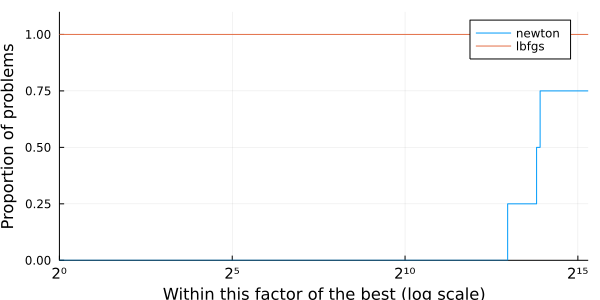
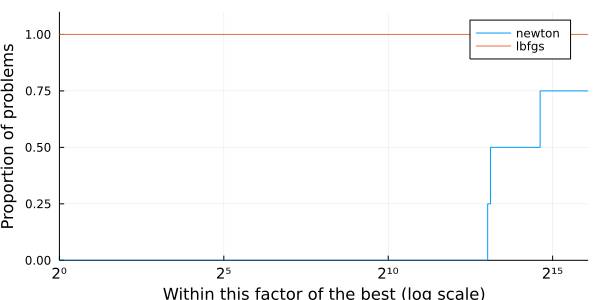
Deploying to gh-pages from  @ dcdb9bae952de26ad7f4052e1809d3c5ec10b59e 🚀

diff --git a/index.html b/index.html
@@ -8,7 +8,7 @@ contour&#40;-2:0.02:2, -0.5:0.02:1.5, &#40;x,y&#41; -&gt; &#40;x - 1&#41;^2 &#43
 nlp &#61; ADNLPModel&#40;
   x -&gt; &#40;x&#91;1&#93; - 1&#41;^2 &#43; 4 * &#40;x&#91;2&#93; - x&#91;1&#93;^2&#41;^2, # function
   &#91;-1.2; 1.0&#93; # starting point
-&#41;</code></pre><pre><code class="plaintext code-output">ADNLPModel - Model with automatic differentiation backend ADNLPModels.ForwardDiffAD{ForwardDiff.GradientConfig{ForwardDiff.Tag{var"#3#4", Float64}, Float64, 2, Vector{ForwardDiff.Dual{ForwardDiff.Tag{var"#3#4", Float64}, Float64, 2}}}}(3, 0, ForwardDiff.GradientConfig{ForwardDiff.Tag{var"#3#4", Float64}, Float64, 2, Vector{ForwardDiff.Dual{ForwardDiff.Tag{var"#3#4", Float64}, Float64, 2}}}((Partials(1.0, 0.0), Partials(0.0, 1.0)), ForwardDiff.Dual{ForwardDiff.Tag{var"#3#4", Float64}, Float64, 2}[Dual{ForwardDiff.Tag{var"#3#4", Float64}}(0.0,6.9153200153722e-310,6.9153200153722e-310), Dual{ForwardDiff.Tag{var"#3#4", Float64}}(0.0,6.9153199943155e-310,6.9153199943155e-310)]))
+&#41;</code></pre><pre><code class="plaintext code-output">ADNLPModel - Model with automatic differentiation backend ADNLPModels.ForwardDiffAD{ForwardDiff.GradientConfig{ForwardDiff.Tag{var"#3#4", Float64}, Float64, 2, Vector{ForwardDiff.Dual{ForwardDiff.Tag{var"#3#4", Float64}, Float64, 2}}}}(3, 0, ForwardDiff.GradientConfig{ForwardDiff.Tag{var"#3#4", Float64}, Float64, 2, Vector{ForwardDiff.Dual{ForwardDiff.Tag{var"#3#4", Float64}, Float64, 2}}}((Partials(1.0, 0.0), Partials(0.0, 1.0)), ForwardDiff.Dual{ForwardDiff.Tag{var"#3#4", Float64}, Float64, 2}[Dual{ForwardDiff.Tag{var"#3#4", Float64}}(0.0,6.93995812715344e-310,6.9399581185061e-310), Dual{ForwardDiff.Tag{var"#3#4", Float64}}(0.0,6.93995812715344e-310,6.9399607618909e-310)]))
   Problem name: Generic
    All variables: ████████████████████ 2      All constraints: ⋅⋅⋅⋅⋅⋅⋅⋅⋅⋅⋅⋅⋅⋅⋅⋅⋅⋅⋅⋅ 0     
             free: ████████████████████ 2                 free: ⋅⋅⋅⋅⋅⋅⋅⋅⋅⋅⋅⋅⋅⋅⋅⋅⋅⋅⋅⋅ 0     
@@ -247,7 +247,7 @@ print&#40;output&#41;</code></pre><pre><code class="plaintext code-output">Gener
   dual feasibility: 4.018046284781729e-9
   solution: [0.9999999986742657  0.9999999970013461]
   iterations: 18
-  elapsed time: 5.1021575927734375e-5
+  elapsed time: 5.817413330078125e-5
 </code></pre>
 <p>And to compare both solvers, we need a collection of problems. Let&#39;s just create one manually for now.</p>
 <pre><code class=language-julia >problems &#61; &#91;
@@ -265,18 +265,18 @@ stats &#61; bmark_solvers&#40;solvers, problems&#41;</code></pre><pre><code clas
  Row │ id     name     nvar   ncon   nequ   status       objective     elapsed_time  iter   dual_feas  primal_feas  neval_obj  neval_grad  neval_cons  neval_cons_lin  neval_cons_nln  neval_jcon  neval_jgrad  neval_jac  neval_jac_lin  neval_jac_nln  neval_jprod  neval_jprod_lin  neval_jprod_nln  neval_jtprod  neval_jtprod_lin  neval_jtprod_nln  neval_hess  neval_hprod  neval_jhess  neval_jhprod  neval_residual  neval_jac_residual  neval_jprod_residual  neval_jtprod_residual  neval_hess_residual  neval_jhess_residual  neval_hprod_residual  extrainfo
      │ Int64  String   Int64  Int64  Int64  Symbol       Float64       Float64       Int64  Float64    Float64      Int64      Int64       Int64       Int64           Int64           Int64       Int64        Int64      Int64          Int64          Int64        Int64            Int64            Int64         Int64             Int64             Int64       Int64        Int64        Int64         Int64           Int64               Int64                 Int64                  Int64                Int64                 Int64                 String
 ─────┼────────────────────────────────────────────────────────────────────────────────────────────────────────────────────────────────────────────────────────────────────────────────────────────────────────────────────────────────────────────────────────────────────────────────────────────────────────────────────────────────────────────────────────────────────────────────────────────────────────────────────────────────────────────────────────────────────────────────────────────────────────────────────────────────────────────────────────────────────
-   1 │     1  Generic      2      0      0  first_order   2.46519e-31      0.5863        1        Inf          0.0          3           4           0               0               0           0            0          0              0              0            0                0                0             0                 0                 0           1            0            0             0               0                   0                     0                      0                    0                     0                     0
-   2 │     2  Generic      2      0      0  first_order   3.74398e-21      0.682246     21        Inf          0.0         50          64           0               0               0           0            0          0              0              0            0                0                0             0                 0                 0          21            0            0             0               0                   0                     0                      0                    0                     0                     0
-   3 │     3  Generic      2      0      0  max_iter     -8.36356          0.572297    100        Inf          0.0        201         301           0               0               0           0            0          0              0              0            0                0                0             0                 0                 0         100            0            0             0               0                   0                     0                      0                    0                     0                     0
-   4 │     4  Generic      2      0      0  first_order   1.43195          0.617975      5        Inf          0.0         12          16           0               0               0           0            0          0              0              0            0                0                0             0                 0                 0           5            0            0             0               0                   0                     0                      0                    0                     0                     0
+   1 │     1  Generic      2      0      0  first_order   2.46519e-31      0.512054      1        Inf          0.0          3           4           0               0               0           0            0          0              0              0            0                0                0             0                 0                 0           1            0            0             0               0                   0                     0                      0                    0                     0                     0
+   2 │     2  Generic      2      0      0  first_order   3.74398e-21      0.615826     21        Inf          0.0         50          64           0               0               0           0            0          0              0              0            0                0                0             0                 0                 0          21            0            0             0               0                   0                     0                      0                    0                     0                     0
+   3 │     3  Generic      2      0      0  max_iter     -8.36356          0.551832    100        Inf          0.0        201         301           0               0               0           0            0          0              0              0            0                0                0             0                 0                 0         100            0            0             0               0                   0                     0                      0                    0                     0                     0
+   4 │     4  Generic      2      0      0  first_order   1.43195          0.558072      5        Inf          0.0         12          16           0               0               0           0            0          0              0              0            0                0                0             0                 0                 0           5            0            0             0               0                   0                     0                      0                    0                     0                     0
   :lbfgs => 4×39 DataFrame
  Row │ id     name     nvar   ncon   nequ   status       objective     elapsed_time  iter   dual_feas   primal_feas  neval_obj  neval_grad  neval_cons  neval_cons_lin  neval_cons_nln  neval_jcon  neval_jgrad  neval_jac  neval_jac_lin  neval_jac_nln  neval_jprod  neval_jprod_lin  neval_jprod_nln  neval_jtprod  neval_jtprod_lin  neval_jtprod_nln  neval_hess  neval_hprod  neval_jhess  neval_jhprod  neval_residual  neval_jac_residual  neval_jprod_residual  neval_jtprod_residual  neval_hess_residual  neval_jhess_residual  neval_hprod_residual  extrainfo
      │ Int64  String   Int64  Int64  Int64  Symbol       Float64       Float64       Int64  Float64     Float64      Int64      Int64       Int64       Int64           Int64           Int64       Int64        Int64      Int64          Int64          Int64        Int64            Int64            Int64         Int64             Int64             Int64       Int64        Int64        Int64         Int64           Int64               Int64                 Int64                  Int64                Int64                 Int64                 String
 ─────┼─────────────────────────────────────────────────────────────────────────────────────────────────────────────────────────────────────────────────────────────────────────────────────────────────────────────────────────────────────────────────────────────────────────────────────────────────────────────────────────────────────────────────────────────────────────────────────────────────────────────────────────────────────────────────────────────────────────────────────────────────────────────────────────────────────────────────────────────────────
-   1 │     1  Generic      2      0      0  first_order   2.26824e-16    3.8147e-5       8  5.28297e-8          0.0         11          10           0               0               0           0            0          0              0              0            0                0                0             0                 0                 0           0            0            0             0               0                   0                     0                      0                    0                     0                     0
-   2 │     2  Generic      2      0      0  first_order   1.44561e-17    8.51154e-5     39  8.41132e-8          0.0         52          45           0               0               0           0            0          0              0              0            0                0                0             0                 0                 0           0            0            0             0               0                   0                     0                      0                    0                     0                     0
-   3 │     3  Generic      2      0      0  first_order  -8.37235        2.69413e-5     12  1.60958e-9          0.0         17          15           0               0               0           0            0          0              0              0            0                0                0             0                 0                 0           0            0            0             0               0                   0                     0                      0                    0                     0                     0
-   4 │     4  Generic      2      0      0  first_order   1.43195        4.31538e-5      9  4.18646e-9          0.0         11          11           0               0               0           0            0          0              0              0            0                0                0             0                 0                 0           0            0            0             0               0                   0                     0                      0                    0                     0                     0</code></pre>
+   1 │     1  Generic      2      0      0  first_order   2.26824e-16    5.79357e-5      8  5.28297e-8          0.0         11          10           0               0               0           0            0          0              0              0            0                0                0             0                 0                 0           0            0            0             0               0                   0                     0                      0                    0                     0                     0
+   2 │     2  Generic      2      0      0  first_order   1.44561e-17    7.39098e-5     39  8.41132e-8          0.0         52          45           0               0               0           0            0          0              0              0            0                0                0             0                 0                 0           0            0            0             0               0                   0                     0                      0                    0                     0                     0
+   3 │     3  Generic      2      0      0  first_order  -8.37235        2.88486e-5     12  1.60958e-9          0.0         17          15           0               0               0           0            0          0              0              0            0                0                0             0                 0                 0           0            0            0             0               0                   0                     0                      0                    0                     0                     0
+   4 │     4  Generic      2      0      0  first_order   1.43195        2.21729e-5      9  4.18646e-9          0.0         11          11           0               0               0           0            0          0              0              0            0                0                0             0                 0                 0           0            0            0             0               0                   0                     0                      0                    0                     0                     0</code></pre>
 <p>The results is a Dictionary of Symbols to DataFrame tables.</p>
 <pre><code class=language-julia >@show typeof&#40;stats&#41;
 @show keys&#40;stats&#41;</code></pre><pre><code class="plaintext code-output">typeof(stats) = Dict{Symbol, DataFrames.DataFrame}
@@ -287,10 +287,10 @@ keys(stats) = [:newton, :lbfgs]
 pretty_stats&#40;stats&#91;:newton&#93;&#91;&#33;, cols&#93;&#41;</code></pre><pre><code class="plaintext code-output">┌─────────┬─────────────┬───────────┬──────────────┬────────┐
 │    name │      status │ objective │ elapsed_time │   iter │
 ├─────────┼─────────────┼───────────┼──────────────┼────────┤
-│ Generic │ first_order │  2.47e-31 │     5.86e-01 │      1 │
-│ Generic │ first_order │  3.74e-21 │     6.82e-01 │     21 │
-│ Generic │    max_iter │ -8.36e+00 │     5.72e-01 │    100 │
-│ Generic │ first_order │  1.43e+00 │     6.18e-01 │      5 │
+│ Generic │ first_order │  2.47e-31 │     5.12e-01 │      1 │
+│ Generic │ first_order │  3.74e-21 │     6.16e-01 │     21 │
+│ Generic │    max_iter │ -8.36e+00 │     5.52e-01 │    100 │
+│ Generic │ first_order │  1.43e+00 │     5.58e-01 │      5 │
 └─────────┴─────────────┴───────────┴──────────────┴────────┘
 </code></pre>
 <p>We can also create a similar table in .tex format, using something like</p>
@@ -496,7 +496,7 @@ performance_profile&#40;stats, cost&#41;</code></pre>
     <footer class=footer >
       <div class="content has-text-centered is-small">
         &copy; Abel Soares Siqueira. <br>
-        Last modified: May 22, 2022.<br>
+        Last modified: May 29, 2022.<br>
         <a ckass=link  href="https://github.com/jso-docs/">jso-docs at GitHub</a>
       </div>
     </footer>
